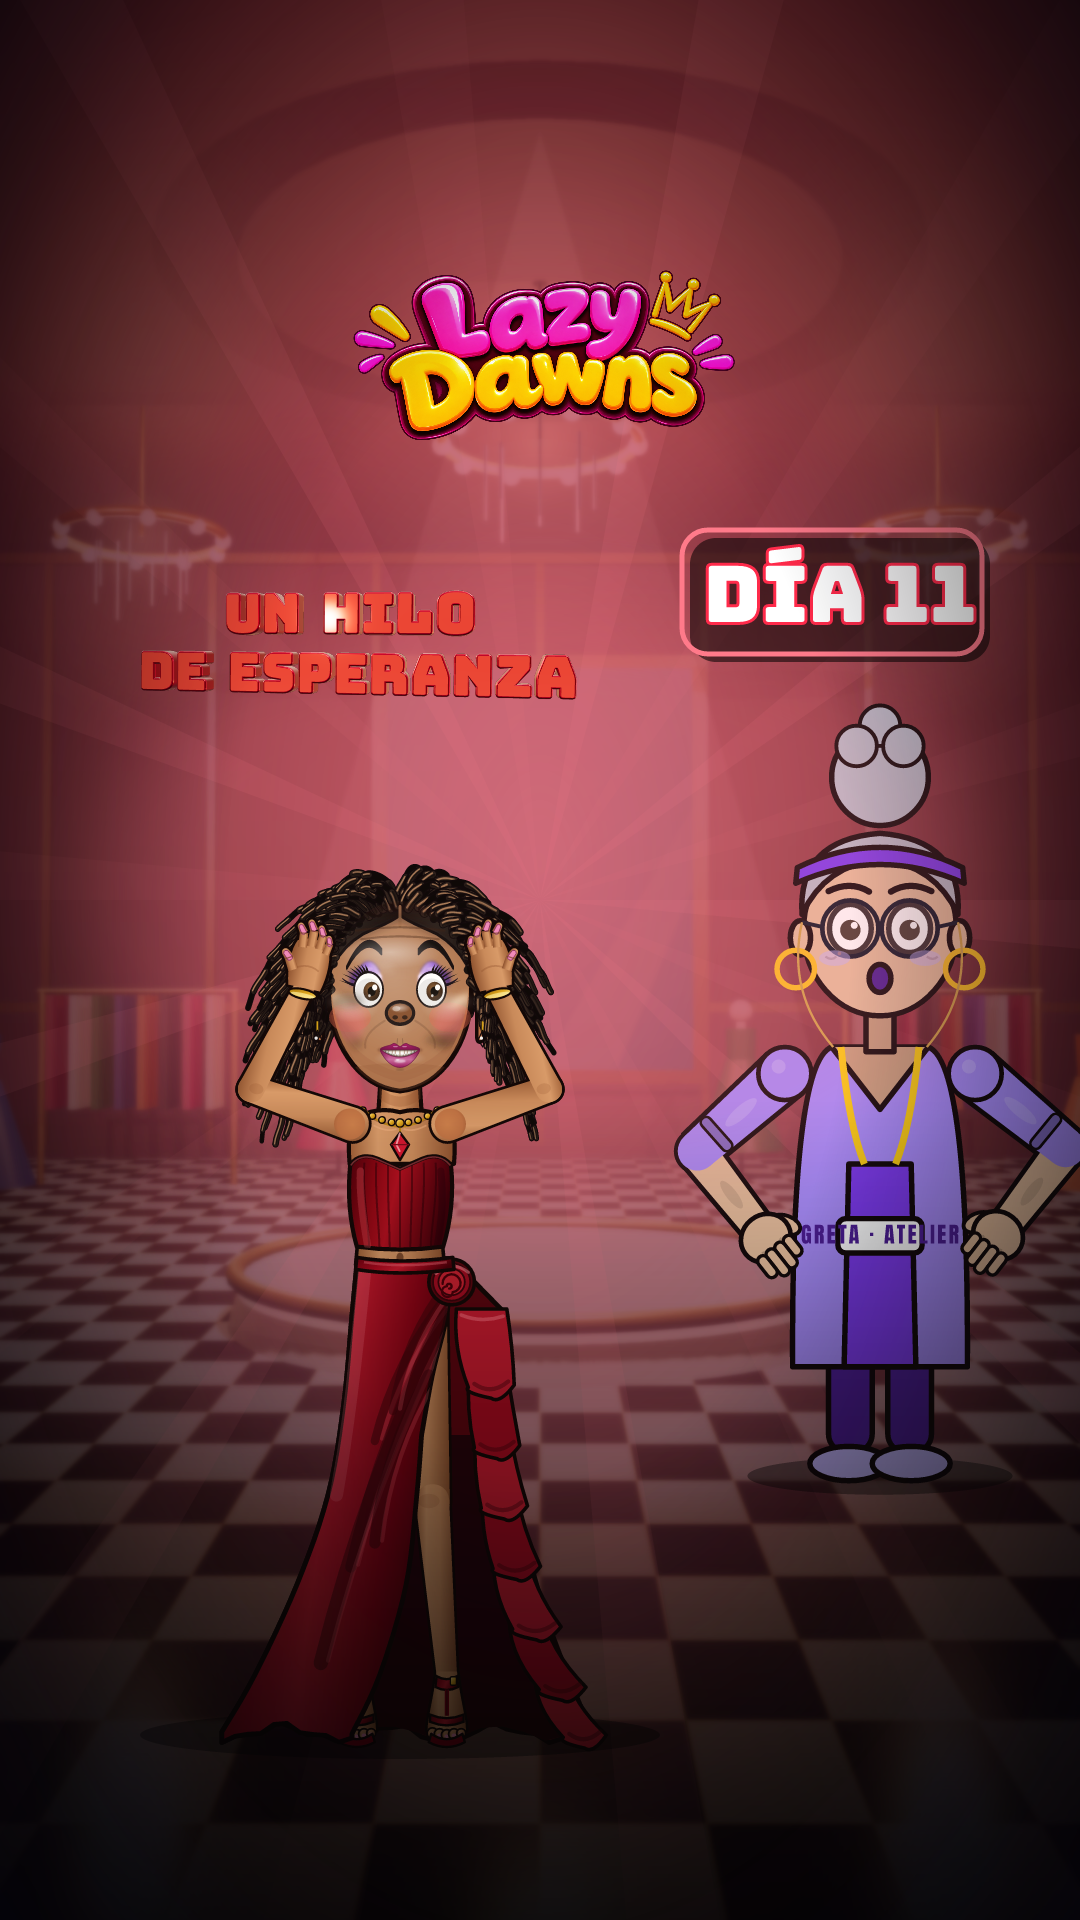
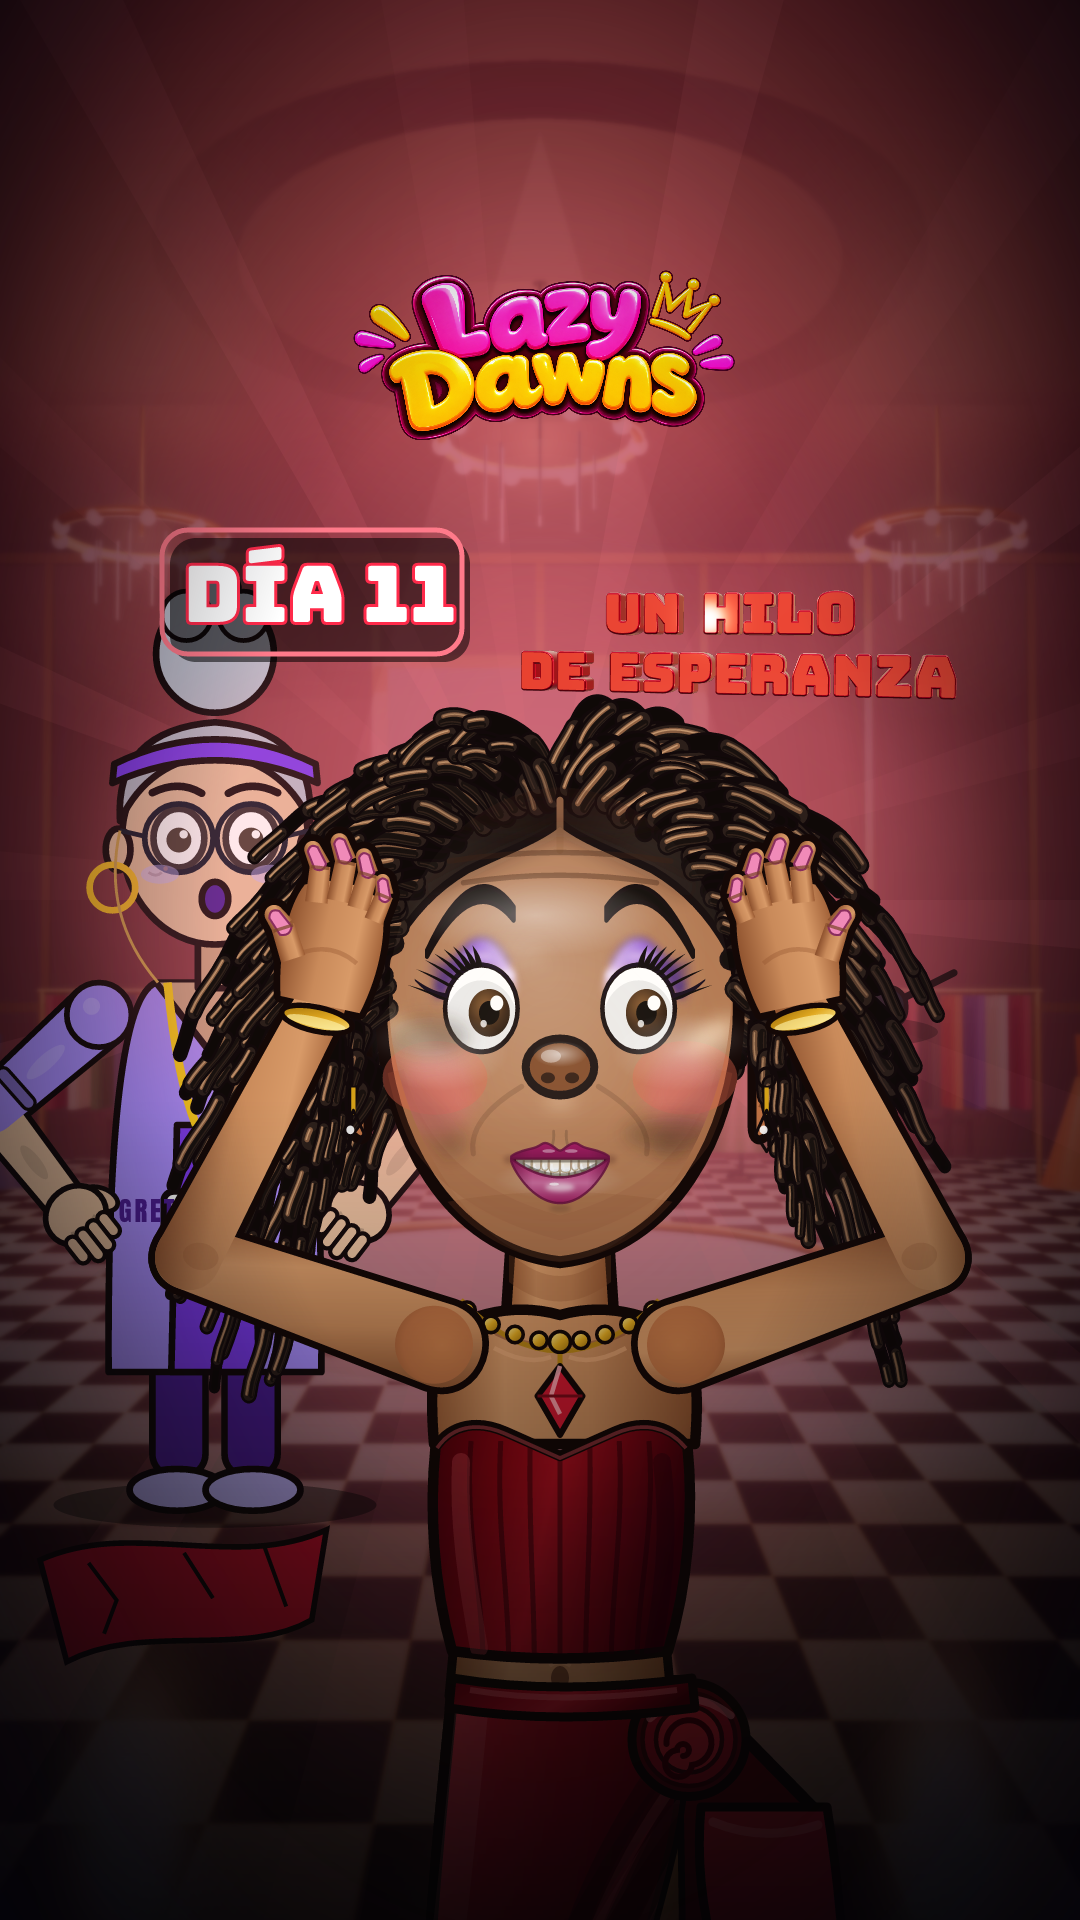
Portada 11 de medio cuerpo; props de trama en portadas 11-13
Claude-Session: https://claude.ai/code/session_01VDdbgAKTwVog87zPcVcZjJ

diff --git a/lazy-dawns/README.md b/lazy-dawns/README.md
@@ -212,3 +212,4 @@ Cada voto ofrece 2 opciones del banco de abajo (las que no hayan ganado se recic
 - Nada se traslapa: lo que aparece (celular, rotulos, personajes) no debe tapar subtitulos ni caras importantes.
 - SECUENCIA LOGICA (creador): los mensajes y todo evento deben seguir una secuencia coherente (quien escribe, a quien, respuestas en orden; la pista debe tener sentido: ej. Mari felicita la nariz nueva sin que Lazy le haya contado = pista).
 - PORTADAS (creador): la protagonista aparece de medio cuerpo hacia arriba y grande; cada portada con relacion/pose DISTINTA con el/los personajes extra detras.
+- PORTADAS DE PELICULA (creador, todas en adelante): protagonista de medio cuerpo hacia arriba; pose y relacion distintas con los extras; incluir objetos/personajes que dan trama (dia 11: tela roja rasgada; dia 12: linterna/apagon; dia 13: pantalla hackeada de M). Props definidos en propsSvg de build_cover2.mjs.
